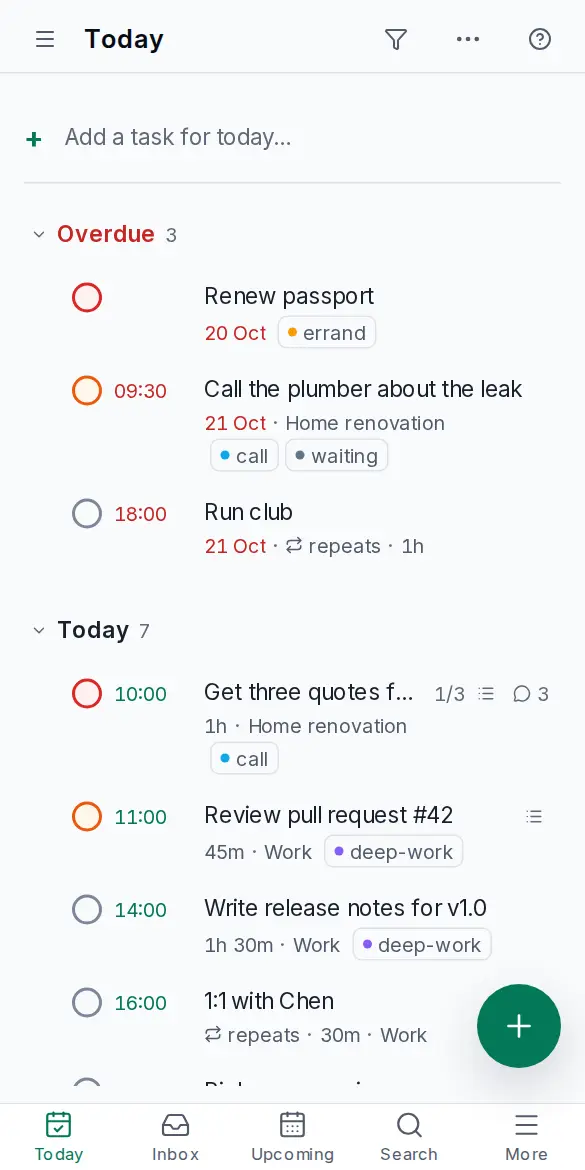
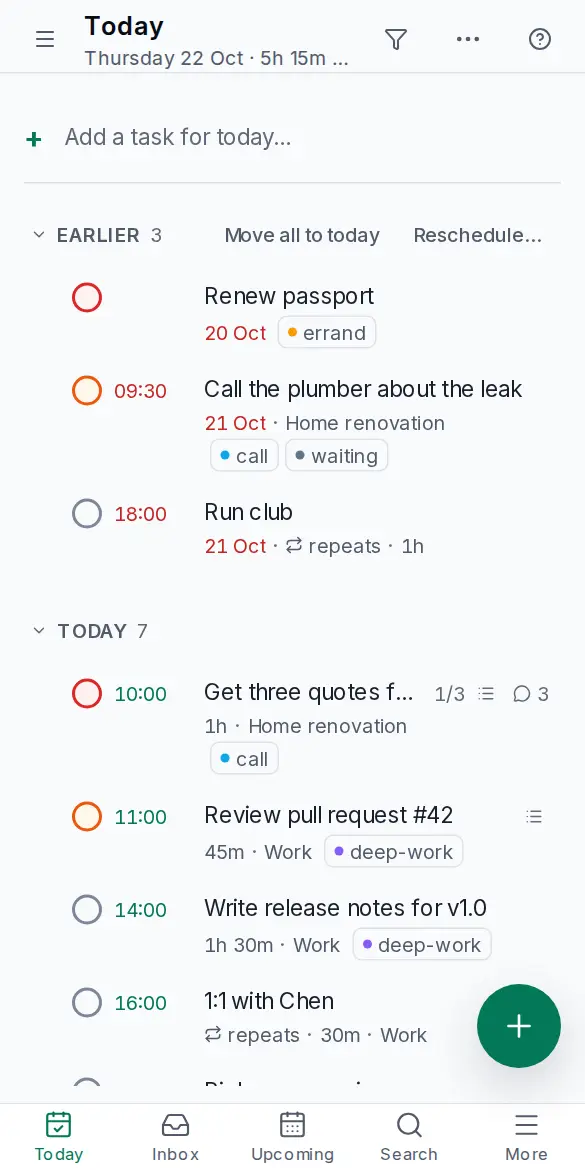
phone-v2: the layout check in German and French covers the screens, tasks ticked, the device smoke left open
Claude-Session: https://claude.ai/code/session_01Bkw4TZLFDGeMdZR3vWZF13

diff --git a/openspec/changes/phone-v2/tasks.md b/openspec/changes/phone-v2/tasks.md
@@ -4,7 +4,7 @@
 
 - [x] 1.1 Move the list actions of `web/src/app/task-list/ListChrome.tsx` into the phone bar's slots and overflow per design D1 (Process the Inbox and the Today Ask action visible, the duration filter visible or in the overflow, Display mode and "Select tasks" in the overflow, the active filter as one chip in the bar), and remove the Select button; verify with `npm test -- budget` after adding a phone case to `web/src/app/budget.test.tsx`: at 390 px Today, the Inbox and a project show nothing between `[data-phone-bar]` and the quick add, and the overflow lists Display mode — Done: `PageHeader barActions` puts a list's slots in the phone bar (`usePhoneListActions` in ListChrome: Process / Ask first, then the duration filter, its active chip when it went to the overflow); Select tasks, Display mode, the duration choices, a project's Layout, Share and Add a note are overflow items (`PhoneMenuItems`, `phoneGroups`). The touch Select button now only shows from 768 px. Verified by `budget.test.tsx` "on a phone (390 px)": Inbox, Today and a project have only the quick add above the first task; the Inbox bar holds Process and its overflow Select tasks; Today's overflow lists Display mode
 - [x] 1.2 Make the Inbox's planned-without-project count the phone bar's subtitle (`PageBar` subtitle) that opens the Filter view with `no project`; verify with a happy-dom test in `inboxPlanned.test.tsx` (or the existing Inbox test file) that the subtitle reads "3 planned tasks without a project" at 390 px and navigates on tap — Done: on a phone the planned count is the bar's subtitle (`useWithMethod` keeps the method link after it). Verified by `budget.test.tsx` ("8 planned tasks without a project" in `[data-phone-subtitle]`, a tap opens /filter); the seed has 8, so the test reads 8, not 3
-- [ ] 1.3 Reserve the add button's footprint under every list below 768 px (bottom padding on the content scroller of the button height plus its offset plus the safe-area inset); verify with `budget.test.tsx` that the last row's bounding box at 390×844 does not intersect `[data-add-button]`, and with `make layout-check`
+- [x] 1.3 Reserve the add button's footprint under every list below 768 px (bottom padding on the content scroller of the button height plus its offset plus the safe-area inset); verify with `budget.test.tsx` that the last row's bounding box at 390×844 does not intersect `[data-add-button]`, and with `make layout-check` — Done: below 768 px the content scroller has `max-md:pb-(--add-room)` (4.75 rem: the 3.5 rem button, its 0.75 rem offset, a 0.5 rem gap; the safe area is in the frame's own padding). Verified by `budget.test.tsx` (the class, the token, the toast lift) and by a new layout-check rule that scrolls each phone screen to its end and fails if the add button overlaps the last row: LAYOUT OK in Chromium at 360 and 390 px (100 screens each), in German and French at 360 px, and at 768 px; happy-dom has no geometry, so the bounding-box check lives in the layout check
 
 ## 2. Tab bar and add button
 
@@ -40,8 +40,8 @@
 
 ## 7. Layout check, documentation and release
 
-- [ ] 7.1 Add German and French runs of the phone screens at 360 px in Chromium to `scripts/e2e-layout.mjs` and the layout-check CI job (`WIDTHS=360`, language `de` then `fr`), failing on sideways scroll or a clipped control; verify with `make layout-check` locally and the CI job's report
-- [ ] 7.2 Document the phone: a "On a phone" section in `docs/interface-guide.md` (bar slots and overflow, the sheet, the drawer, swipes, the budget), swipe and long press in `docs/work-from-the-list.md`, the add button and the drawer in `docs/getting-started.md` and `docs/install-phone.md`; regenerate `docs/images/mobile-today-*.webp` and `mobile-menu-*.webp` with `make docs-screenshots` (`mobile-today`, `mobile-menu`); verify with `make docs-check` and by eye that the images show two rows of chrome and the new drawer
-- [ ] 7.3 Translate every new string (Complete, Schedule…, Select tasks, the cue toast, the sheet choices) in the five catalogs; verify `node scripts/i18n-check.mjs`
-- [ ] 7.4 Real-device smoke, recorded in this change folder: iOS Safari (installed app and tab) and Android Chrome at 360 and 390 px: swipe right and left, diagonal scroll, long press, the system back-swipe at the left edge, the task sheet with the keyboard up, the drawer with forty projects, the tab bar minimising, large text setting; fix what it turns up
-- [ ] 7.5 Measure the bundle growth (`npm run build` before and after, expected about 1.5 KB gzipped) and record it in design D11; run `make check` and add the CHANGELOG.md entry under Unreleased ("Changed: the app on a phone")
+- [x] 7.1 Add German and French runs of the phone screens at 360 px in Chromium to `scripts/e2e-layout.mjs` and the layout-check CI job (`WIDTHS=360`, language `de` then `fr`), failing on sideways scroll or a clipped control; verify with `make layout-check` locally and the CI job's report — Done: two Chromium 360 px legs with `OPENTODO_LANG` de and fr in the CI layout job (no e2e on them). With a language set the script checks the screens (sideways scroll, clipped and small targets, the add button, axe), not the overlays, whose triggers it finds by English names, and waits for any content instead of an English heading. Verified locally: German 53 screens LAYOUT OK, French 53 screens LAYOUT OK; the CI legs report on the PR
+- [x] 7.2 Document the phone: a "On a phone" section in `docs/interface-guide.md` (bar slots and overflow, the sheet, the drawer, swipes, the budget), swipe and long press in `docs/work-from-the-list.md`, the add button and the drawer in `docs/getting-started.md` and `docs/install-phone.md`; regenerate `docs/images/mobile-today-*.webp` and `mobile-menu-*.webp` with `make docs-screenshots` (`mobile-today`, `mobile-menu`); verify with `make docs-check` and by eye that the images show two rows of chrome and the new drawer — Done: "On a phone" in `docs/interface-guide.md`; swipe and hold in `work-from-the-list.md` (kept under 600 words by trimming the paragraph); the add button and the drawer in `getting-started.md` and `install-phone.md`; long press in `bulk-actions.md`; `mobile-today` and `mobile-menu` regenerated with the docs script (the one-time cue is marked seen there). Verified by `make docs-check` and by eye: Today shows the bar with the date line and the quick add, nothing else, then the list; the drawer starts with Calendar and has the larger rows
+- [x] 7.3 Translate every new string (Complete, Schedule…, Select tasks, the cue toast, the sheet choices) in the five catalogs; verify `node scripts/i18n-check.mjs` — Done: Layout, Pick a day…, Schedule…, Select tasks, the cue toast and the two touch notes in de, es, fr, it and pt (appended, as the catalogs keep insertion order); messages.json refreshed. Verified by `node scripts/i18n-check.mjs` and `make i18n-check`
+- [ ] 7.4 Real-device smoke, recorded in this change folder: iOS Safari (installed app and tab) and Android Chrome at 360 and 390 px: swipe right and left, diagonal scroll, long press, the system back-swipe at the left edge, the task sheet with the keyboard up, the drawer with forty projects, the tab bar minimising, large text setting; fix what it turns up — Not done here: it needs an iPhone and an Android phone. Covered meanwhile by Playwright with touch and phone viewports (the layout check at 360/390 px in three languages, the e2e mobile step) and happy-dom touch and pointer tests; left for the owner (questions file).
+- [x] 7.5 Measure the bundle growth (`npm run build` before and after, expected about 1.5 KB gzipped) and record it in design D11; run `make check` and add the CHANGELOG.md entry under Unreleased ("Changed: the app on a phone") — Done: measured with `vite build` of main against this branch, the entry chunks gzipped: JS +2,239 bytes, CSS +246 bytes (recorded in D11, a little over the 1.5 KB estimate); CHANGELOG "The app on a phone" under Unreleased → Changed. `make check` stand-ins run one by one: `npm run lint`, web tests 4,418 passed (TZ=UTC), `go vet`, `go test ./...`, `make ci-checks`, `make docs-check`, `make openspec-validate`, the layout checks above and `e2e-smoke`, `e2e-views`
